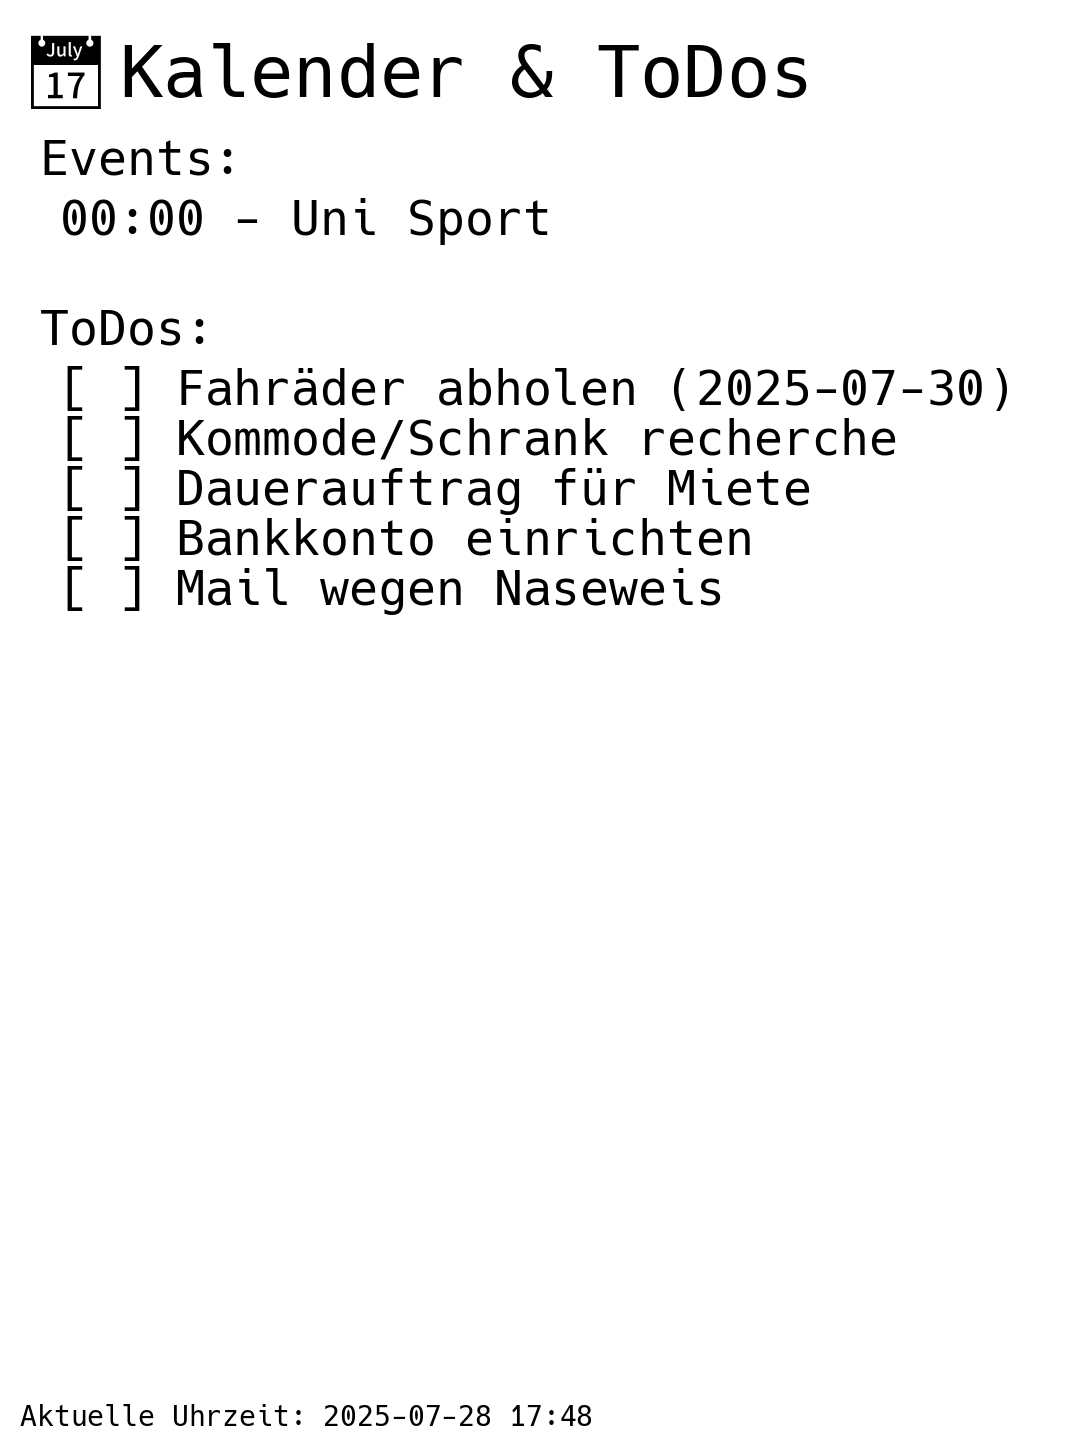
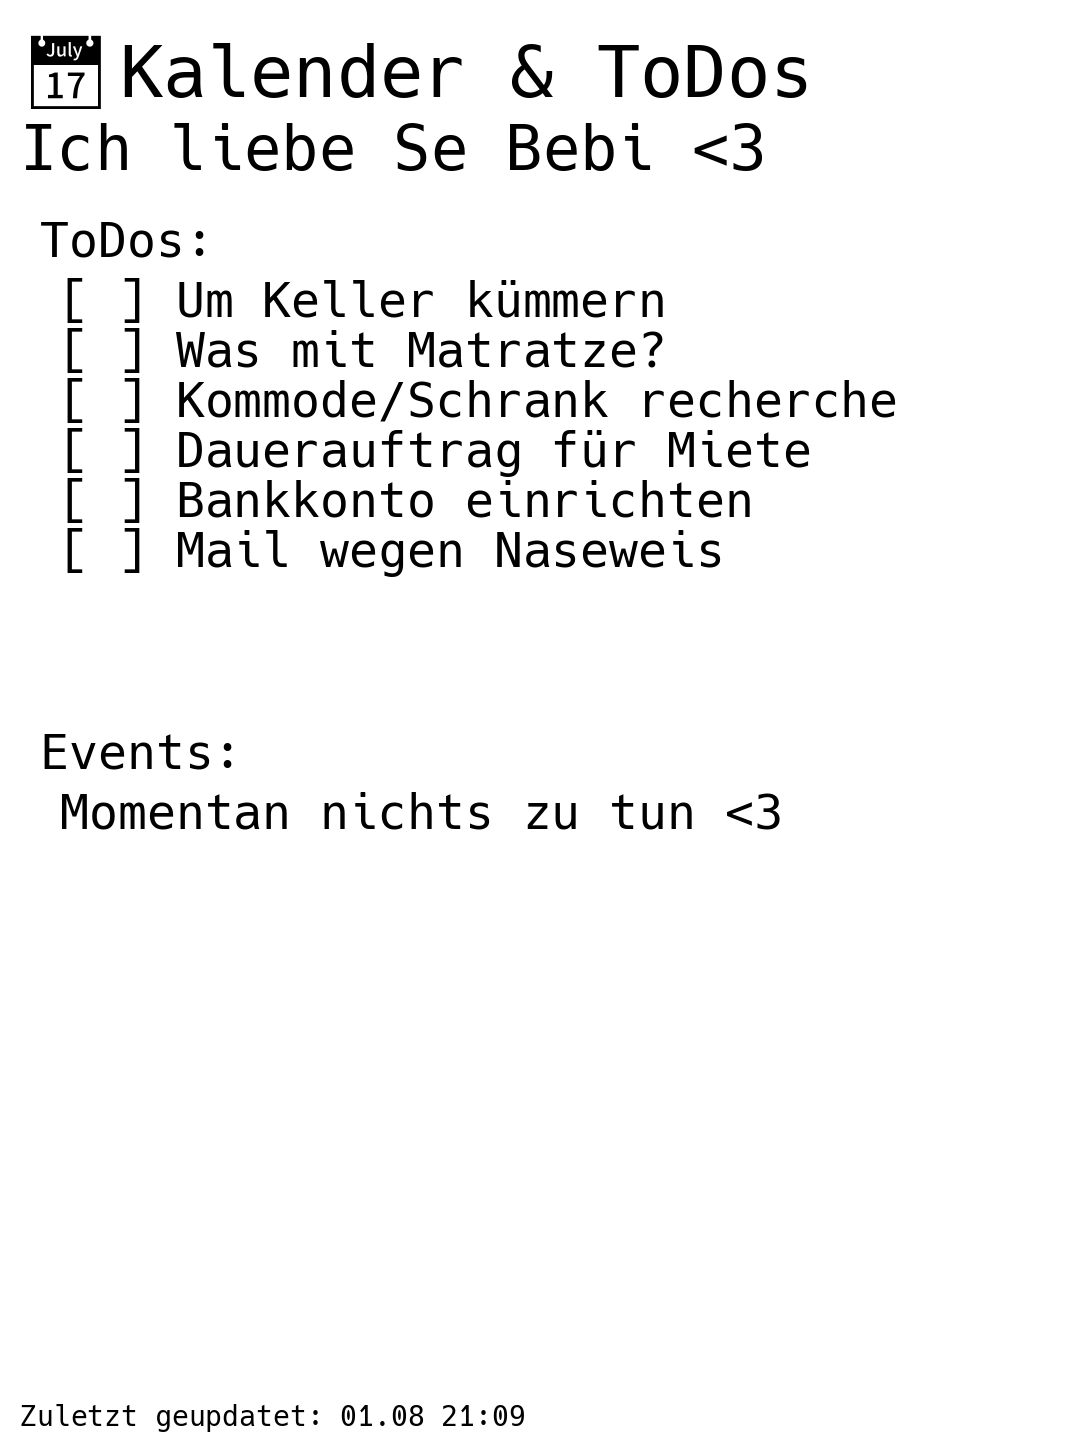
feat: nice dashboard

diff --git a/src/create_dashboard.py b/src/create_dashboard.py
@@ -4,10 +4,10 @@ from datetime import datetime
 
 
 def create_dashboard():
-    print("Creating Dashboard...")
+    w, h = 1072, 1448
     # Bildgröße Kindle Paperwhite 7. Gen: 1072 x 1448 px
     # 'L' = 8-bit Graustufen, weißer Hintergrund
-    img = Image.new('L', (1072, 1448), color=255)
+    img = Image.new('L', (w, h), color=255)
     draw = ImageDraw.Draw(img)
 
     # Schrift laden
@@ -26,6 +26,10 @@ def create_dashboard():
 
     draw.text((padding, y), "📅 ", font=font_emoji, fill=0)
     draw.text((padding+100, y), "Kalender & ToDos", font=font_title, fill=0)
+
+    y += 72+10
+    draw.text((padding, y), "Ich liebe Se Bebi <3",
+              font=ImageFont.truetype(font_path, 62), fill=0)
     y += 100
     events = fetch_calendar()
 
@@ -33,23 +37,36 @@ def create_dashboard():
         # draw.text((padding, y), f"{cal_name}:", font=font_subtitle, fill=0)
         # y += 40
 
-        draw.text((padding + 20, y), "Events:", font=font_text, fill=0)
-        y += 60
-        for e in data['events']:
-            draw.text((padding + 40, y), e, font=font_text, fill=0)
-            y += 50
-
-        y += 60
+        # todos
         draw.text((padding + 20, y), "ToDos:", font=font_text, fill=0)
         y += 60
-        for t in data['todos']:
-            draw.text((padding + 40, y), t, font=font_text, fill=0)
-            y += 50
+        if len(data['todos']) == 0:
+            draw.text((padding + 40, y), "Einfach alles erledigt <3",
+                      font=font_text, fill=0)
+        else:
+            for t in data['todos']:
+                draw.text((padding + 40, y), t, font=font_text, fill=0)
+                y += 50
 
-        # y += 40  # Abstand zu nächstem Kalender
+        # events
+        y = h // 2
+        draw.text((padding + 20, y), "Events:", font=font_text, fill=0)
+        y += 60
+        if len(data['events']) == 0:
+            draw.text((padding + 40, y), "Momentan nichts zu tun <3",
+                      font=font_text, fill=0)
+        else:
+            for e in data['events']:
+                draw.text((padding + 40, y), e, font=font_text, fill=0)
+                y += 50
 
-    current_time = datetime.now().strftime("%H:%M %d.%m")
+        y += 40  # Abstand zu nächstem Kalender
+
+    current_time = datetime.now().strftime("%d.%m %H:%M")
     draw.text((padding, 1400),
               f"Zuletzt geupdatet: {current_time}", font=font_subtitle, fill=0)
     # Datei speichern
     img.save("public/kindle_dashboard.png")
+
+
+create_dashboard()

diff --git a/src/main.py b/src/main.py
@@ -35,10 +35,16 @@ if (__name__ == "__main__"):
 
     while True:
         if (should_run_now()):
+            print(
+                f"[{datetime.now().strftime('%d-%m-%Y %H:%M:%S')}] Creating dashboard...")
             create_dashboard()
 
+            print(
+                f"[{datetime.now().strftime('%d-%m-%Y %H:%M:%S')}] Uploading PNG...")
             with open('public/kindle_dashboard.png', 'rb') as f:
                 r = requests.put(nc_url, data=f, auth=(username, password))
-                print("Upload status:", r.status_code)
+                print(
+                    f"[{datetime.now().strftime('%d-%m-%Y %H:%M:%S')}] Upload status:", r.status_code)
+            print()
 
         sleep_until_next_hour()

diff --git a/src/fetch_calendar.py b/src/fetch_calendar.py
@@ -4,7 +4,8 @@ import os
 
 
 def fetch_calendar():
-    print("Fetching calender...")
+    print(
+        f"[{datetime.now().strftime('%d-%m-%Y %H:%M:%S')}] Fetching calender...")
     client = DAVClient(
         'https://cloud.floxsite.de/remote.php/dav/calendars/flo/')
     client.username = os.environ.get('NC_USERNAME')
@@ -36,7 +37,7 @@ def fetch_calendar():
 
             summary_text = summary.value if summary else "Kein Titel"
             due_str = due.value.strftime(
-                '(%d.%m.)') if due else ""
+                '(%d.%m)') if due else ""
 
             events[calendar.name]['todos'].append(
                 f"[ ] {summary_text} {due_str}")
